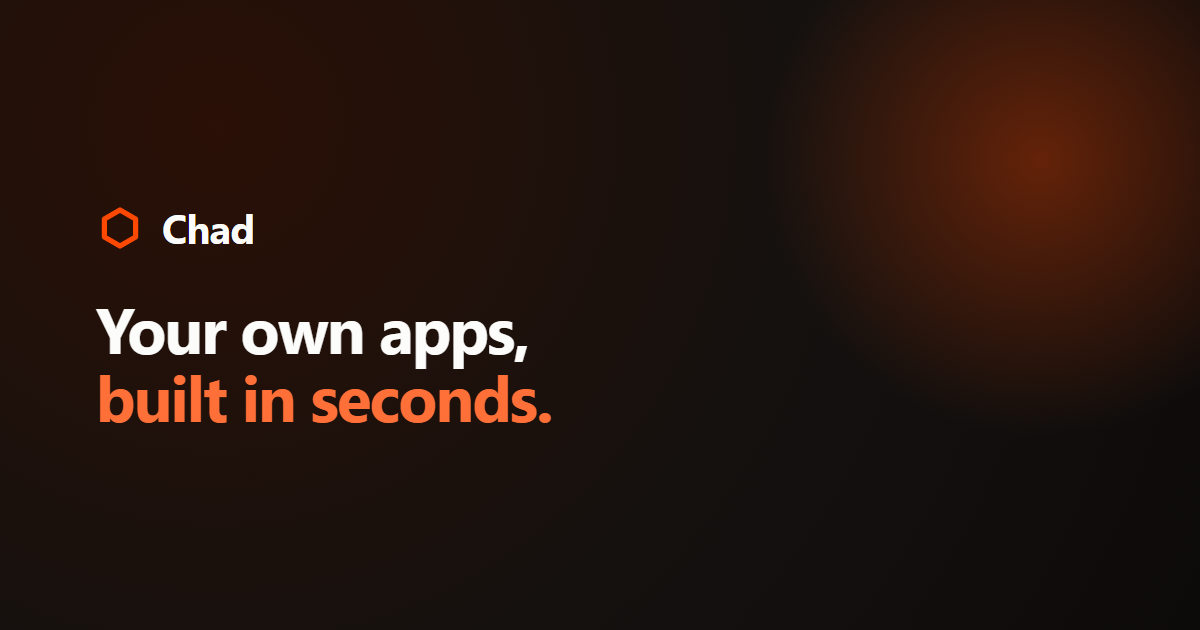
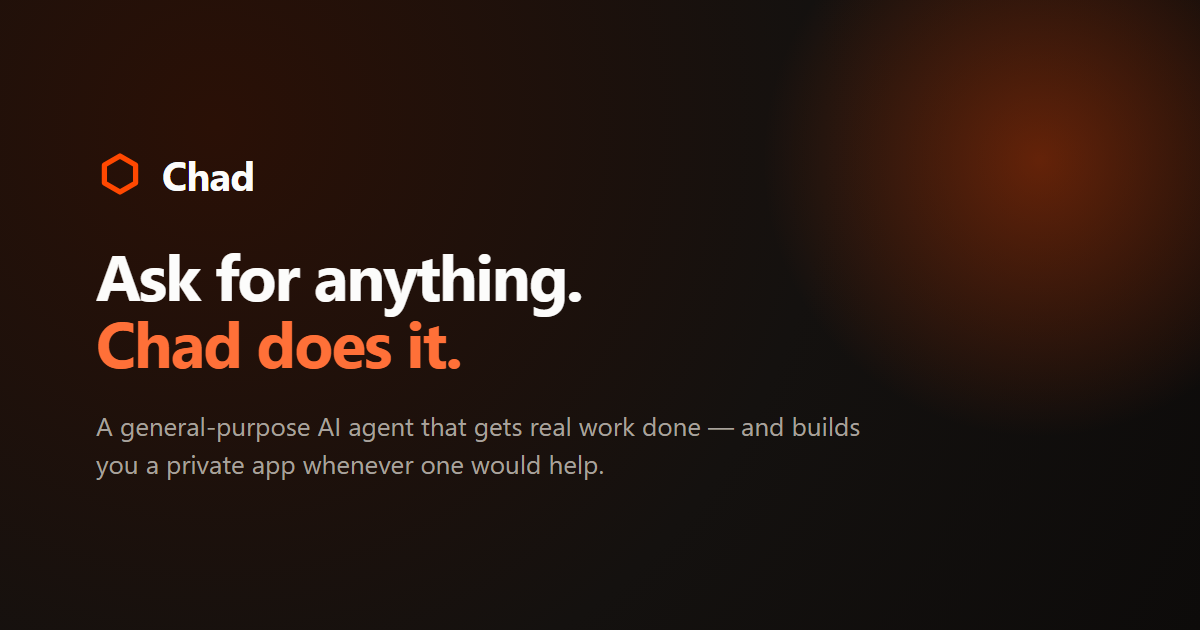
Reposition the marketing hero away from "app builder"
The hero sold Chad as a tool that turns requests into apps. That is one of
the things it does, not what it is: the README leads with a general-purpose
agent that "can perform arbitrary tasks... you can also skip the Gadget and
just have the agent perform tasks directly", and the page's own fifth prompt
("Fix the typos in this Google Doc") builds nothing at all.

The whole fold carried the narrower claim, not just the headline, so all of
it moves together: the dateline ("AI app workspace"), the standfirst, the
strapline, the figure caption ("the app it built"), and a legend strip that
was six app categories with no open end. The ink band gains a standfirst
establishing the order of operations the three blocks then detail — direct
work is the default, software is the escalation — which also retires the
one absolute claim left in that section ("Every request becomes its own app").

index.html's description and og/twitter tags embedded the old headline
verbatim, so a share still advertised it; the OG image is regenerated for
the same reason.

marketingCopy.test.tsx is the copy contract, so it moves with the copy, and
picks up the legend's open-ended terminal and both new section intros.

diff --git a/packages/workshop-frontend/src/marketing/MarketingHero.tsx b/packages/workshop-frontend/src/marketing/MarketingHero.tsx
@@ -20,8 +20,23 @@ const TEXT_SHELL = 'mx-auto w-full max-w-300 px-5 md:px-8 lg:px-12'
  */
 const FIGURE_SHELL = 'mx-auto w-full max-w-[96rem] px-5 md:px-8 lg:px-12'
 
-/** The categories the product builds for. First appearance of the four-colour legend. */
-const LEGEND = ['SLIDES', 'WHITEBOARDS', 'DASHBOARDS', 'GAMES', 'DOCS', 'INTERNAL TOOLS']
+/**
+ * What Chad works on — things you already have as much as things it builds. First appearance of the
+ * four-colour legend.
+ *
+ * The open-ended last entry is the load-bearing one: a closed list of six app categories read as a
+ * product catalogue, which is exactly the "it's an app builder" misreading this page has to avoid.
+ */
+const LEGEND = [
+  'DOCS',
+  'SLIDES',
+  'DASHBOARDS',
+  'WHITEBOARDS',
+  'REPOS',
+  'GAMES',
+  'INTERNAL TOOLS',
+  'ANYTHING ELSE YOU ASK FOR',
+]
 
 /** Cycles compute → storage → ai → media across the separators, the same order the page reuses. */
 const LEGEND_ACCENTS = [
@@ -48,14 +63,14 @@ export default function MarketingHero({ onRequestDemo }: MarketingHeroProps) {
         {/* (1) Dateline. A masthead needs a rule and a date line above it or the page starts in
             mid-air; this is what stops the top of the document reading as blank. */}
         <div className="flex h-10 items-center justify-between border-b border-kumo-line font-mono text-[11px] tracking-[0.14em] text-kumo-subtle uppercase">
-          <span>Chad — AI app workspace</span>
+          <span>Chad — AI workspace</span>
           <span className="hidden sm:block">Open source · Runs on your own infrastructure</span>
         </div>
 
         {/* (2) Masthead. Headline cols 1-7, standfirst cols 9-12. */}
         <div className="grid grid-cols-12 items-start gap-x-6 pt-10 pb-8 lg:gap-x-10 lg:pt-14 lg:pb-10">
           <h1 className="col-span-12 text-[clamp(2.75rem,6vw,5rem)] leading-[0.96] font-semibold tracking-[-0.035em] text-kumo-default text-balance lg:col-span-7">
-            Your own apps, built in seconds.
+            Ask for anything. Chad does it.
           </h1>
 
           <div className="col-span-12 mt-6 lg:col-span-4 lg:col-start-9 lg:mt-2">
@@ -63,8 +78,9 @@ export default function MarketingHero({ onRequestDemo }: MarketingHeroProps) {
                 to the primary CTA a few lines below. */}
             <div aria-hidden="true" className="mb-4 h-0.5 w-10 bg-kumo-contrast dark:bg-kumo-line" />
             <p className="text-[17px] leading-[1.55] text-kumo-subtle">
-              Chad turns any request into a working, secure app — instantly, and just for you. No
-              SaaS sign-up, no waiting on engineering, no shared risk.
+              A general-purpose AI agent that gets real work done — on your docs, your repos, your
+              Slack — and builds you a private app whenever one would help. It only ever touches what
+              you approve.
             </p>
           </div>
 
@@ -91,7 +107,7 @@ export default function MarketingHero({ onRequestDemo }: MarketingHeroProps) {
             </div>
 
             <p className="mt-4 font-mono text-[11px] tracking-[0.14em] text-kumo-subtle uppercase">
-              No engineering ticket · Private by default · Self-host free
+              Does the work · Builds the tools · Private by default
             </p>
           </div>
         </div>
@@ -136,7 +152,8 @@ export default function MarketingHero({ onRequestDemo }: MarketingHeroProps) {
               │
             </span>
             <span className="text-[13px] leading-relaxed text-kumo-subtle">
-              The conversation on the left; the app it built on the right. Both are yours alone.
+              The conversation on the left; the work on the right — here, an app the agent built and
+              now runs with you. Both are yours alone.
             </span>
           </figcaption>
         </figure>

diff --git a/packages/workshop-frontend/src/marketing/marketingCopy.test.tsx b/packages/workshop-frontend/src/marketing/marketingCopy.test.tsx
@@ -31,12 +31,16 @@ window.scrollTo = () => {}
  */
 const APPROVED_COPY = {
   hero: [
-    'Your own apps, built in seconds.',
-    'Chad turns any request into a working, secure app — instantly, and just for you. No SaaS sign-up, no waiting on engineering, no shared risk.',
+    'Ask for anything. Chad does it.',
+    'A general-purpose AI agent that gets real work done — on your docs, your repos, your Slack — and builds you a private app whenever one would help. It only ever touches what you approve.',
     'Request a demo',
     'Prefer to try it yourself? Self-host it free →',
+    // The legend's open-ended terminal. A closed list of app categories is the exact misreading
+    // this page has to avoid, so it is guarded like any other approved string.
+    'ANYTHING ELSE YOU ASK FOR',
   ],
   justAsk: [
+    'Five real prompts. Some build you something new; some just get the work done.',
     '"Make slides for my upcoming meeting with a customer."',
     'Builds a deck instantly using the built-in Slides format — no blank page.',
     '"Make a collaborative whiteboard app."',
@@ -50,8 +54,9 @@ const APPROVED_COPY = {
     'Attach a doc, AI edits it directly, scoped to just that file.',
   ],
   features: [
+    'Most requests the agent just handles — it writes and runs the code itself. When a job needs software of its own, it builds that too. Three things keep all of it yours.',
     'Gadgets',
-    'Every request becomes its own app',
+    'When it builds, it builds just for you',
     "When you ask for a slide deck, a whiteboard, or a dashboard, Chad doesn't hand you a shared tool — it builds you a private one, running in its own secure sandbox. Don't like something about it? Just ask AI to change it. It's yours.",
     'Gatekeepers',
     'Nothing gets touched without your OK',

diff --git a/packages/workshop-frontend/index.html b/packages/workshop-frontend/index.html
@@ -9,14 +9,14 @@
 
     <link rel="icon" type="image/svg+xml" href="/favicon.svg" />
     <title>Chad</title>
-    <meta name="description" content="Chad turns any request into a working, secure app — instantly, and just for you.">
+    <meta name="description" content="A general-purpose AI agent that gets real work done — on your docs, your repos, your Slack — and builds you a private app whenever one would help.">
     <meta property="og:type" content="website">
-    <meta property="og:title" content="Chad — Your own apps, built in seconds.">
-    <meta property="og:description" content="Chad turns any request into a working, secure app — instantly, and just for you.">
+    <meta property="og:title" content="Chad — Ask for anything.">
+    <meta property="og:description" content="A general-purpose AI agent that gets real work done — and builds you a private app whenever one would help.">
     <meta property="og:image" content="/marketing/og-image.png">
     <meta name="twitter:card" content="summary_large_image">
-    <meta name="twitter:title" content="Chad — Your own apps, built in seconds.">
-    <meta name="twitter:description" content="Chad turns any request into a working, secure app — instantly, and just for you.">
+    <meta name="twitter:title" content="Chad — Ask for anything.">
+    <meta name="twitter:description" content="A general-purpose AI agent that gets real work done — and builds you a private app whenever one would help.">
     <meta name="twitter:image" content="/marketing/og-image.png">
   </head>
   <body>

diff --git a/packages/workshop-frontend/src/marketing/FeatureHighlights.tsx b/packages/workshop-frontend/src/marketing/FeatureHighlights.tsx
@@ -17,7 +17,7 @@ const BLOCKS = [
     numeral: '01',
     accent: 'var(--color-compute-100)',
     label: 'Gadgets',
-    heading: 'Every request becomes its own app',
+    heading: 'When it builds, it builds just for you',
     body: "When you ask for a slide deck, a whiteboard, or a dashboard, Chad doesn't hand you a shared tool — it builds you a private one, running in its own secure sandbox. Don't like something about it? Just ask AI to change it. It's yours.",
   },
   {
@@ -47,6 +47,14 @@ export default function FeatureHighlights() {
               02 — HOW IT WORKS
             </p>
           </div>
+
+          {/* Standfirst. Establishes the order of operations the three blocks then detail: direct
+              work is the default, software is the escalation. Without it the band opens on
+              "Gadgets" and the whole section reads as a description of an app builder. */}
+          <p className="col-span-12 mt-6 max-w-[52ch] text-[17px] leading-[1.55] text-[var(--ink-fg-subtle)] md:col-span-9 md:mt-0">
+            Most requests the agent just handles — it writes and runs the code itself. When a job
+            needs software of its own, it builds that too. Three things keep all of it yours.
+          </p>
         </div>
 
         {BLOCKS.map(({ numeral, accent, label, heading, body }) => (

diff --git a/packages/workshop-frontend/src/marketing/JustAskSection.tsx b/packages/workshop-frontend/src/marketing/JustAskSection.tsx
@@ -146,7 +146,7 @@ export default function JustAskSection() {
           </h2>
 
           <p className="col-span-12 mt-4 max-w-[34ch] text-[15px] leading-relaxed text-kumo-subtle md:col-span-3 md:mt-0">
-            Five real prompts, and what came back.
+            Five real prompts. Some build you something new; some just get the work done.
           </p>
         </div>
 
